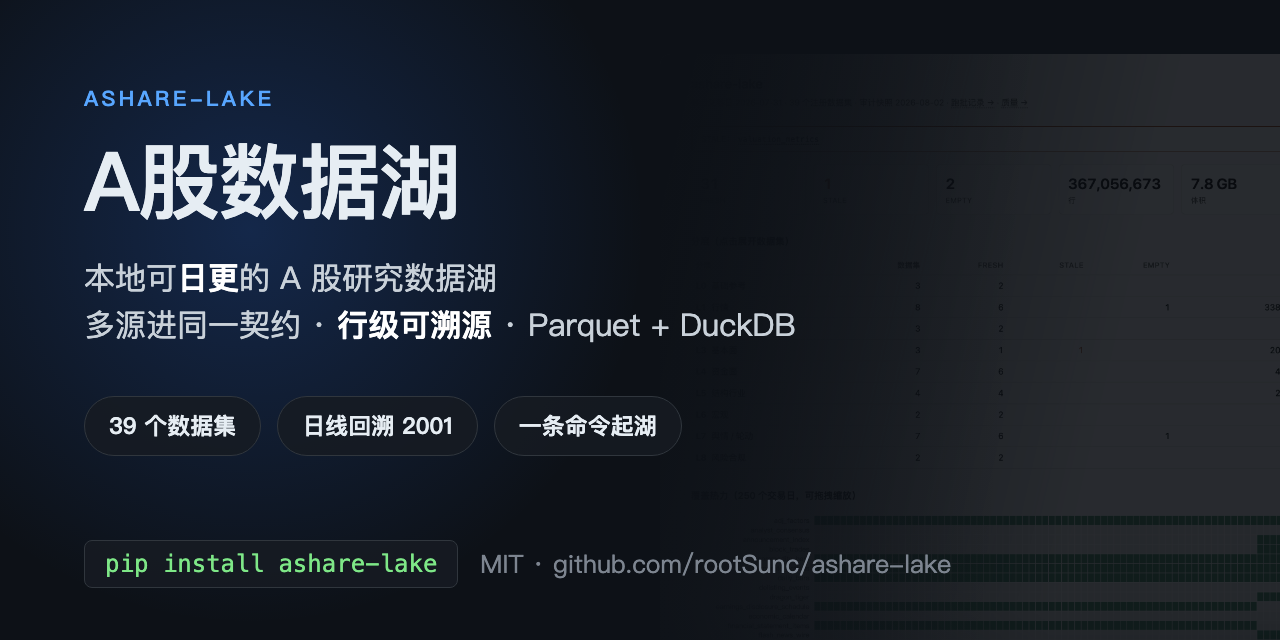
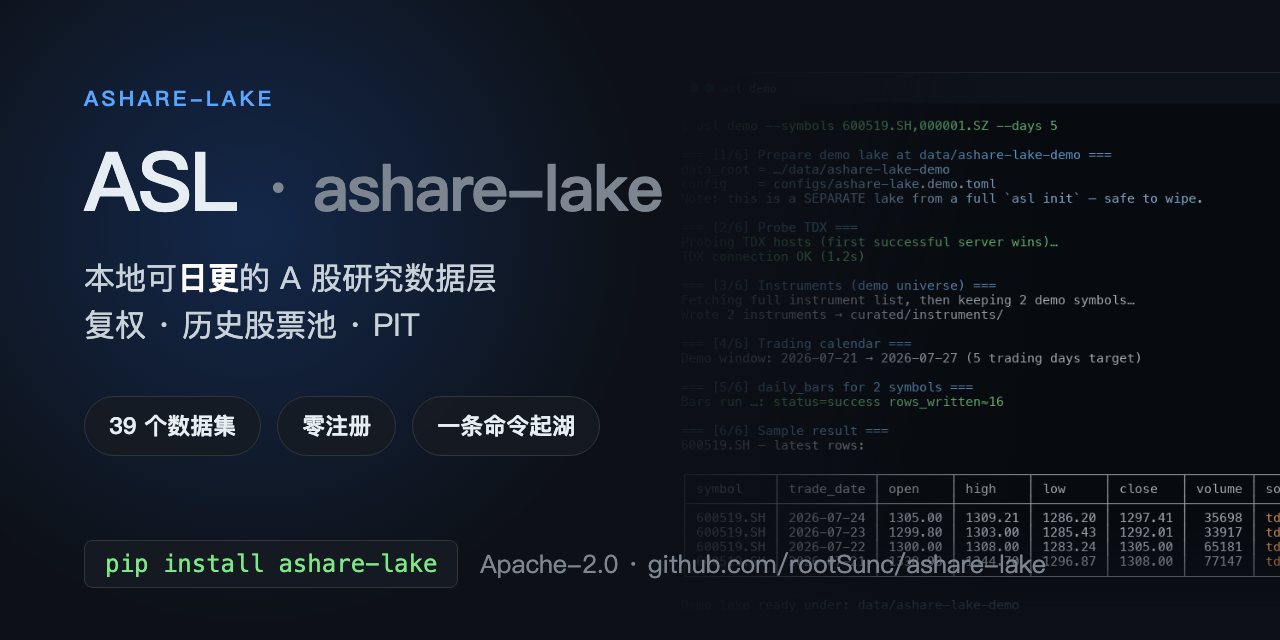
docs: sharpen onboarding and project positioning

diff --git a/docs/assets/og-image.html b/docs/assets/og-image.html
@@ -8,20 +8,20 @@
     color:#e6edf3; position:relative;
   }
   .shot {
-    position:absolute; right:-170px; top:54px; width:790px;
-    border-radius:10px; opacity:.30;
-    filter:brightness(.42) saturate(.75) contrast(1.15);
+    position:absolute; right:-112px; top:72px; width:730px;
+    border-radius:10px; opacity:.84;
+    filter:brightness(.92) saturate(.9) contrast(1.05);
     -webkit-mask-image:
-      linear-gradient(103deg, transparent 2%, #000 52%),
-      linear-gradient(#000 0%, #000 58%, transparent 88%);
+      linear-gradient(103deg, transparent 2%, #000 38%),
+      linear-gradient(#000 0%, #000 82%, transparent 98%);
     mask-image:
-      linear-gradient(103deg, transparent 2%, #000 52%),
-      linear-gradient(#000 0%, #000 58%, transparent 88%);
+      linear-gradient(103deg, transparent 2%, #000 38%),
+      linear-gradient(#000 0%, #000 82%, transparent 98%);
     -webkit-mask-composite:source-in; mask-composite:intersect;
   }
   .scrim {
     position:absolute; inset:0;
-    background:linear-gradient(95deg, #0d1117 30%, rgba(13,17,23,.55) 58%, transparent 78%);
+    background:linear-gradient(95deg, #0d1117 30%, rgba(13,17,23,.62) 56%, transparent 80%);
   }
   .glow {
     position:absolute; left:-200px; top:-220px; width:900px; height:900px;
@@ -54,19 +54,19 @@
   }
 </style></head>
 <body>
-  <img class="shot" src="asl-serve.png">
+  <img class="shot" src="asl-demo.png">
   <div class="scrim"></div>
   <div class="glow"></div>
   <div class="wrap">
     <div class="eyebrow">ASHARE-LAKE</div>
     <h1>ASL <span class="dim">· ashare-lake</span></h1>
     <div class="tag">
-      本地可<b>日更</b>的 A 股研究湖<br>
-      别再每次重拉、自己拼复权了
+      本地可<b>日更</b>的 A 股研究数据层<br>
+      复权 · 历史股票池 · PIT
     </div>
     <div class="stats">
       <div class="pill">39 个数据集</div>
-      <div class="pill">日线回溯 2001</div>
+      <div class="pill">零注册</div>
       <div class="pill">一条命令起湖</div>
     </div>
   </div>

diff --git a/README.md b/README.md
@@ -1,5 +1,5 @@
 <h1 align="center">ASL · ashare-lake</h1>
-<p align="center"><b>本地可日更的 A 股研究湖</b></p>
+<p align="center"><b>免费、零注册、自托管的 A 股历史数据层</b></p>
 
 <p align="center">
   <a href="https://github.com/rootSunc/ashare-lake/actions/workflows/ci.yml"><img src="https://github.com/rootSunc/ashare-lake/actions/workflows/ci.yml/badge.svg" alt="CI"></a>
@@ -10,13 +10,36 @@
 </p>
 
 <p align="center">
-  <b>别再每次重拉、自己拼复权了。</b> 一行命令，把能日更的 A 股研究湖落到本地。<br>
-  取数工具给你现在，湖给你历史。
+  <b>别再每次重拉、自己拼复权了。</b> 一条命令，把可日更的研究数据落到本地。<br>
+  自动保存历史口径，供 Python、DuckDB、Polars 和 AI agent 使用。
 </p>
 
 <p align="center">
-  <b>39 个数据集 · 9 大类</b> · <b>日线回溯至各股上市日</b> · <b>6 个 MCP 工具</b> · <b>行级溯源</b> · <b>零 token / 零积分 / 零注册</b>
+  <b>39 个数据集 · 9 大类</b> · <b>复权 / 历史股票池 / PIT</b> · <b>6 个 MCP 工具</b> · <b>行级溯源</b>
 </p>
+
+## 30 秒拿到真数
+
+```bash
+pip install ashare-lake    # 不需要 token、积分或注册
+asl demo                   # 真实数据：5 只票 × 30 个交易日
+```
+
+实测约 25 秒。需要能访问 **TDX 行情主机**（大陆直连更稳）；不通先运行
+`asl sources --only tdx_protocol`。demo 会写入独立的
+`data/ashare-lake-demo/`，不会覆盖全量湖。
+
+<p align="center">
+  <img src="docs/assets/asl-demo.png" alt="asl demo：分阶段拉数并打印样例日线" width="820" />
+</p>
+
+```python
+from ashare_lake.query import load
+
+bars = load("daily_bars", data_root="data/ashare-lake-demo")
+```
+
+如果你只需要现价，取数接口就够了；如果你需要复查历史、避免幸存者偏差或做 PIT 研究，继续建湖。
 
 ## 为什么要一个湖
 
@@ -32,25 +55,6 @@
 python scripts/survivorship_gap.py --lang zh --svg docs/assets/survivorship-gap.zh.svg
 ```
 
-## 30 秒拿到真数
-
-```bash
-pip install ashare-lake    # 所有数据源都不要注册、token、积分
-asl demo                   # 5 只票 × 30 个交易日，真实日线
-```
-
-实测 25 秒。需能访问 **TDX 行情主机**（大陆直连即可）。不通先 `asl sources --only tdx_protocol`。
-
-<p align="center">
-  <img src="docs/assets/asl-demo.png" alt="asl demo：分阶段拉数并打印样例日线" width="820" />
-</p>
-
-```python
-from ashare_lake.query import load
-
-bars = load("daily_bars", data_root="data/ashare-lake-demo")
-```
-
 ## 建你自己的湖：四条命令
 
 ```bash
@@ -60,7 +64,7 @@ asl init                   # 全市场标的 × 最近 3 年（约 1 小时）
 asl run daily              # 之后每个交易日跑这一条
 ```
 
-`asl init` 默认**浅而不窄**：年限少，标的一个不缺。按标的裁剪会把幸存者偏差直接建进湖里，
+`asl init` 默认**浅而不窄**：最近 3 年，标的一个不缺。按标的裁剪会把幸存者偏差直接建进湖里，
 而浅是诚实的——`coverage_start` 会如实记录。想要全量历史：`asl init --profile full`（约 3 倍时间），
 或随时加深：
 
@@ -305,7 +309,8 @@ asl backfill daily_bars --start 2001-01-01     # 或事后加深
 
 ## 项目状态与文档
 
-个人项目：issue / PR 欢迎，响应尽力而为。[贡献指南](CONTRIBUTING.md) · [安全策略](SECURITY.md) · [CHANGELOG](CHANGELOG.md)。
+个人项目：issue / PR 欢迎，响应尽力而为。当前路线见 [ROADMAP](ROADMAP.md)。
+[贡献指南](CONTRIBUTING.md) · [安全策略](SECURITY.md) · [CHANGELOG](CHANGELOG.md)。
 
 完整索引：[docs/README.md](docs/README.md)。常用：[MCP](docs/reference/mcp.md) · [安装](docs/getting-started/installation.md) · [数据集目录](docs/datasets/catalog.md) · [CLI](docs/reference/cli.md)。
 

diff --git a/README.en.md b/README.en.md
@@ -1,5 +1,5 @@
 <h1 align="center">ASL · ashare-lake</h1>
-<p align="center"><b>A local, daily-refreshable A-share research lake</b></p>
+<p align="center"><b>A free, self-hosted historical data layer for A-shares</b></p>
 
 <p align="center">
   <a href="https://github.com/rootSunc/ashare-lake/actions/workflows/ci.yml"><img src="https://github.com/rootSunc/ashare-lake/actions/workflows/ci.yml/badge.svg" alt="CI"></a>
@@ -11,15 +11,38 @@
 
 <p align="center">
   <b>Stop re-fetching and hand-rolling adjust factors.</b>
-  One command drops a daily-refreshable A-share research lake onto your machine.<br>
-  Fetch tools give you now; a lake gives you history.
+  One command drops a daily-refreshable research data layer onto your machine.<br>
+  Keep historical semantics for Python, DuckDB, Polars, and AI agents.
 </p>
 
 <p align="center">
-  <b>39 datasets · 9 categories</b> · <b>daily bars back to ~2001</b> ·
-  <b>6 MCP tools</b> · <b>row-level provenance</b> ·
-  <b>no tokens / no credits / no signup</b>
+  <b>39 datasets · 9 categories</b> · <b>adjustment / historical universes / PIT</b> ·
+  <b>6 MCP tools</b> · <b>row-level provenance</b>
 </p>
+
+## Data in ~30 seconds
+
+```bash
+pip install ashare-lake    # no token, credit, or signup
+asl demo                   # real data: 5 names × 30 sessions
+```
+
+Measured at about 25 seconds. Needs **TDX quote hosts** reachable (mainland access is more reliable);
+if it fails, try `asl sources --only tdx_protocol`. The demo writes to its own
+`data/ashare-lake-demo/` directory and never touches a full lake.
+
+<p align="center">
+  <img src="docs/assets/asl-demo.png" alt="asl demo: phased fetch with sample daily bars" width="820" />
+</p>
+
+```python
+from ashare_lake.query import load
+
+bars = load("daily_bars", data_root="data/ashare-lake-demo")
+```
+
+If you only need a current quote, a fetch API may be enough. Build a lake when you need reproducible history,
+survivorship-safe universes, or point-in-time research.
 
 ## Why a lake
 
@@ -41,26 +64,6 @@ dataset on a coverage list.
 python scripts/survivorship_gap.py --svg docs/assets/survivorship-gap.svg
 ```
 
-## Data in ~30 seconds
-
-```bash
-pip install ashare-lake    # no source needs signup, tokens, or credits
-asl demo                   # 5 names × 30 sessions, real daily bars
-```
-
-25 seconds, measured. Needs **TDX quote hosts** reachable (direct from the
-mainland). If down: `asl sources --only tdx_protocol`.
-
-<p align="center">
-  <img src="docs/assets/asl-demo.png" alt="asl demo: phased fetch with sample daily bars" width="820" />
-</p>
-
-```python
-from ashare_lake.query import load
-
-bars = load("daily_bars", data_root="data/ashare-lake-demo")
-```
-
 ## Your own lake, in four commands
 
 ```bash
@@ -70,7 +73,7 @@ asl init                   # every symbol × the last 3 years (~1 hour)
 asl run daily              # this one line, each trading day after
 ```
 
-`asl init` defaults to **shallow, never narrow**: fewer years, every symbol.
+`asl init` defaults to **shallow, never narrow**: the last 3 years, every symbol.
 Trimming symbols instead would build the survivorship bias this lake exists to
 avoid straight into it, whereas shallow is honest — `coverage_start` records it.
 Want everything: `asl init --profile full` (~3x the time). Deepen any time:
@@ -271,7 +274,7 @@ More: [troubleshooting](docs/operations/troubleshooting.md) ·
 
 ## Project status and docs
 
-Personal project: issues and PRs welcome, responses best-effort.
+Personal project: issues and PRs welcome, responses best-effort. See the current [ROADMAP](ROADMAP.md).
 [CONTRIBUTING](CONTRIBUTING.md) · [SECURITY](SECURITY.md) ·
 [CHANGELOG](CHANGELOG.md).
 

diff --git a/ROADMAP.md b/ROADMAP.md
@@ -1,0 +1,39 @@
+# Roadmap
+
+ashare-lake is a data layer, not a trading strategy or a hosted quote service. The roadmap is
+ordered around one promise: make reproducible A-share history easy to build, inspect, and consume.
+
+## Now · 0.6
+
+- Make the first-run path prove the research value, not only that a quote request works.
+- Keep the README, PyPI description, CLI help, and getting-started docs generated from the same
+  defaults and history semantics.
+- Publish source-health and coverage evidence that can be checked without trusting a marketing claim.
+- Add small, runnable recipes for survivorship-safe universes, point-in-time fundamentals, and
+  adjustment handling.
+
+## Next · 0.7
+
+- Provide stable integration recipes for DuckDB, Polars, and common quant research workflows.
+- Publish the read-only MCP server metadata through the official MCP Registry once the package
+  metadata and installation contract are ready.
+- Improve contributor onboarding with focused good-first issues and a small set of source-adapter
+  contracts that can be tested offline.
+
+## Later · 1.0 criteria
+
+1. The canonical schemas and provenance columns have a documented compatibility policy.
+2. A fresh install can complete the demo and diagnose source/network failures clearly.
+3. Daily runs are resumable, auditable, and safe to retry after a partial source failure.
+4. The supported Python and operating-system matrix is tested in CI.
+5. Legal and source-retention limits are documented for every published dataset.
+
+## Explicit non-goals
+
+- A backtesting engine, portfolio optimizer, or trading-signal marketplace.
+- Redistributing upstream market data from this repository.
+- Hiding source limits behind synthetic rows or silent fallbacks.
+
+Feature requests and source additions are welcome when they preserve the data-layer boundary. Before
+opening an issue, see [CONTRIBUTING.md](CONTRIBUTING.md), the [dataset catalog](docs/datasets/catalog.md),
+and the [legal notes](docs/legal-and-data-sources.md).

diff --git a/CODE_OF_CONDUCT.md b/CODE_OF_CONDUCT.md
@@ -1,0 +1,17 @@
+# Code of Conduct
+
+## Our standard
+
+We want this project to be useful to people with different backgrounds and levels of experience.
+Participants are expected to be respectful, constructive, and specific when discussing data quality,
+implementation choices, and competing tools.
+
+Unacceptable behaviour includes harassment, discrimination, personal attacks, publishing private
+information, and deliberately misleading reports about data or source behaviour.
+
+## Enforcement
+
+Report problems privately to the maintainer through the security contact listed in
+[SECURITY.md](SECURITY.md) when the report contains sensitive information. Otherwise, contact the
+maintainer through the repository issue or discussion system. Reports will be reviewed and handled
+as promptly as a personal open-source project permits.

diff --git a/CONTRIBUTING.md b/CONTRIBUTING.md
@@ -8,6 +8,18 @@
 提较大功能前，请先看 [定位与差异](docs/comparison.md)（本仓库只做数据层）和
 [许可与数据合规](docs/legal-and-data-sources.md)。
 
+## 适合第一次贡献的方向
+
+不需要先理解整个编排引擎。以下工作可以独立完成，而且对用户可见：
+
+- 为现有数据集补一条离线 recipe、查询示例或字段说明
+- 给已有 adapter 增加 schema 边界测试和清晰的源限制说明
+- 修复中英文文档、CLI help 与实际默认值之间的漂移
+- 改进 `asl demo`、`asl status` 或 dashboard 的错误提示
+
+数据源接入需要同时提交来源、保留期、限流和合规说明；请不要把真实数据文件提交到仓库。
+较大的方向可以先在 issue / discussion 中确认范围。
+
 ## 环境
 
 ```bash

diff --git a/.github/SUPPORT.md b/.github/SUPPORT.md
@@ -1,0 +1,11 @@
+# Getting help
+
+For a reproducible bug, open an issue with the command, version, operating system, and the smallest
+configuration that demonstrates it. Please redact local paths, proxy credentials, and tokens.
+
+For usage questions, source availability, and ideas that are not yet scoped into a concrete change,
+use GitHub Discussions when enabled. Feature requests should explain the downstream research problem
+and the expected dataset or query contract; see [CONTRIBUTING.md](../CONTRIBUTING.md).
+
+Security issues must be reported privately through [SECURITY.md](../SECURITY.md), never in a public
+issue or discussion.

diff --git a/README.pypi.md b/README.pypi.md
@@ -1,6 +1,6 @@
-# ASL · ashare-lake — 本地可日更的 A 股研究湖
+# ASL · ashare-lake — 免费、自托管的 A 股历史数据层
 
-**别再每次重拉、自己拼复权了。** 一行命令，把能日更的 A 股研究湖落到本地。取数工具给你现在，湖给你历史。
+**别再每次重拉、自己拼复权了。** 一条命令，把可日更的研究数据落到本地。自动保存历史口径，供 Python、DuckDB、Polars 和 AI agent 使用。
 
 CLI：`asl` · 包名：`ashare_lake` · **Python ≥ 3.10** · **只做数据层**（回测和信号留给下游）。
 

diff --git a/docs/getting-started/quickstart.md b/docs/getting-started/quickstart.md
@@ -57,7 +57,9 @@ asl init --config configs/ashare-lake.toml
 
 1. 创建 `{data.root}` 下 staging / curated / derived / meta / duckdb 目录  
 2. 初始化 `meta/manifest.db`（SQLite WAL）与 DuckDB 视图  
-3. 按 `[job.init.phases]` 执行分阶段全量回填（默认自 2016 年起）
+3. 按 `[job.init.phases]` 执行分阶段全量回填（默认最近 3 年、全市场标的）
+
+需要从 2016 年起的完整初始化时，使用 `asl init --profile full`；也可以先用默认窗口建湖，再按需回填。
 
 **仅建目录、不跑回填：**
 

diff --git a/docs/README.md b/docs/README.md
@@ -8,6 +8,8 @@ CLI 是 `asl`，Python 包是 `ashare_lake`。推荐：`pip install ashare-lake`
 
 定位与合规（开源读者可先看）：[与同类项目差异](comparison.md) · [许可与数据合规](legal-and-data-sources.md)。
 
+产品边界与近期方向：[ROADMAP](../ROADMAP.md)。
+
 面向使用者的文档以中文为准；[CHANGELOG](../CHANGELOG.md) 与 [ADR](adr/) 保持英文。英文简介见 [README.en.md](../README.en.md)。
 
 ### 术语约定
